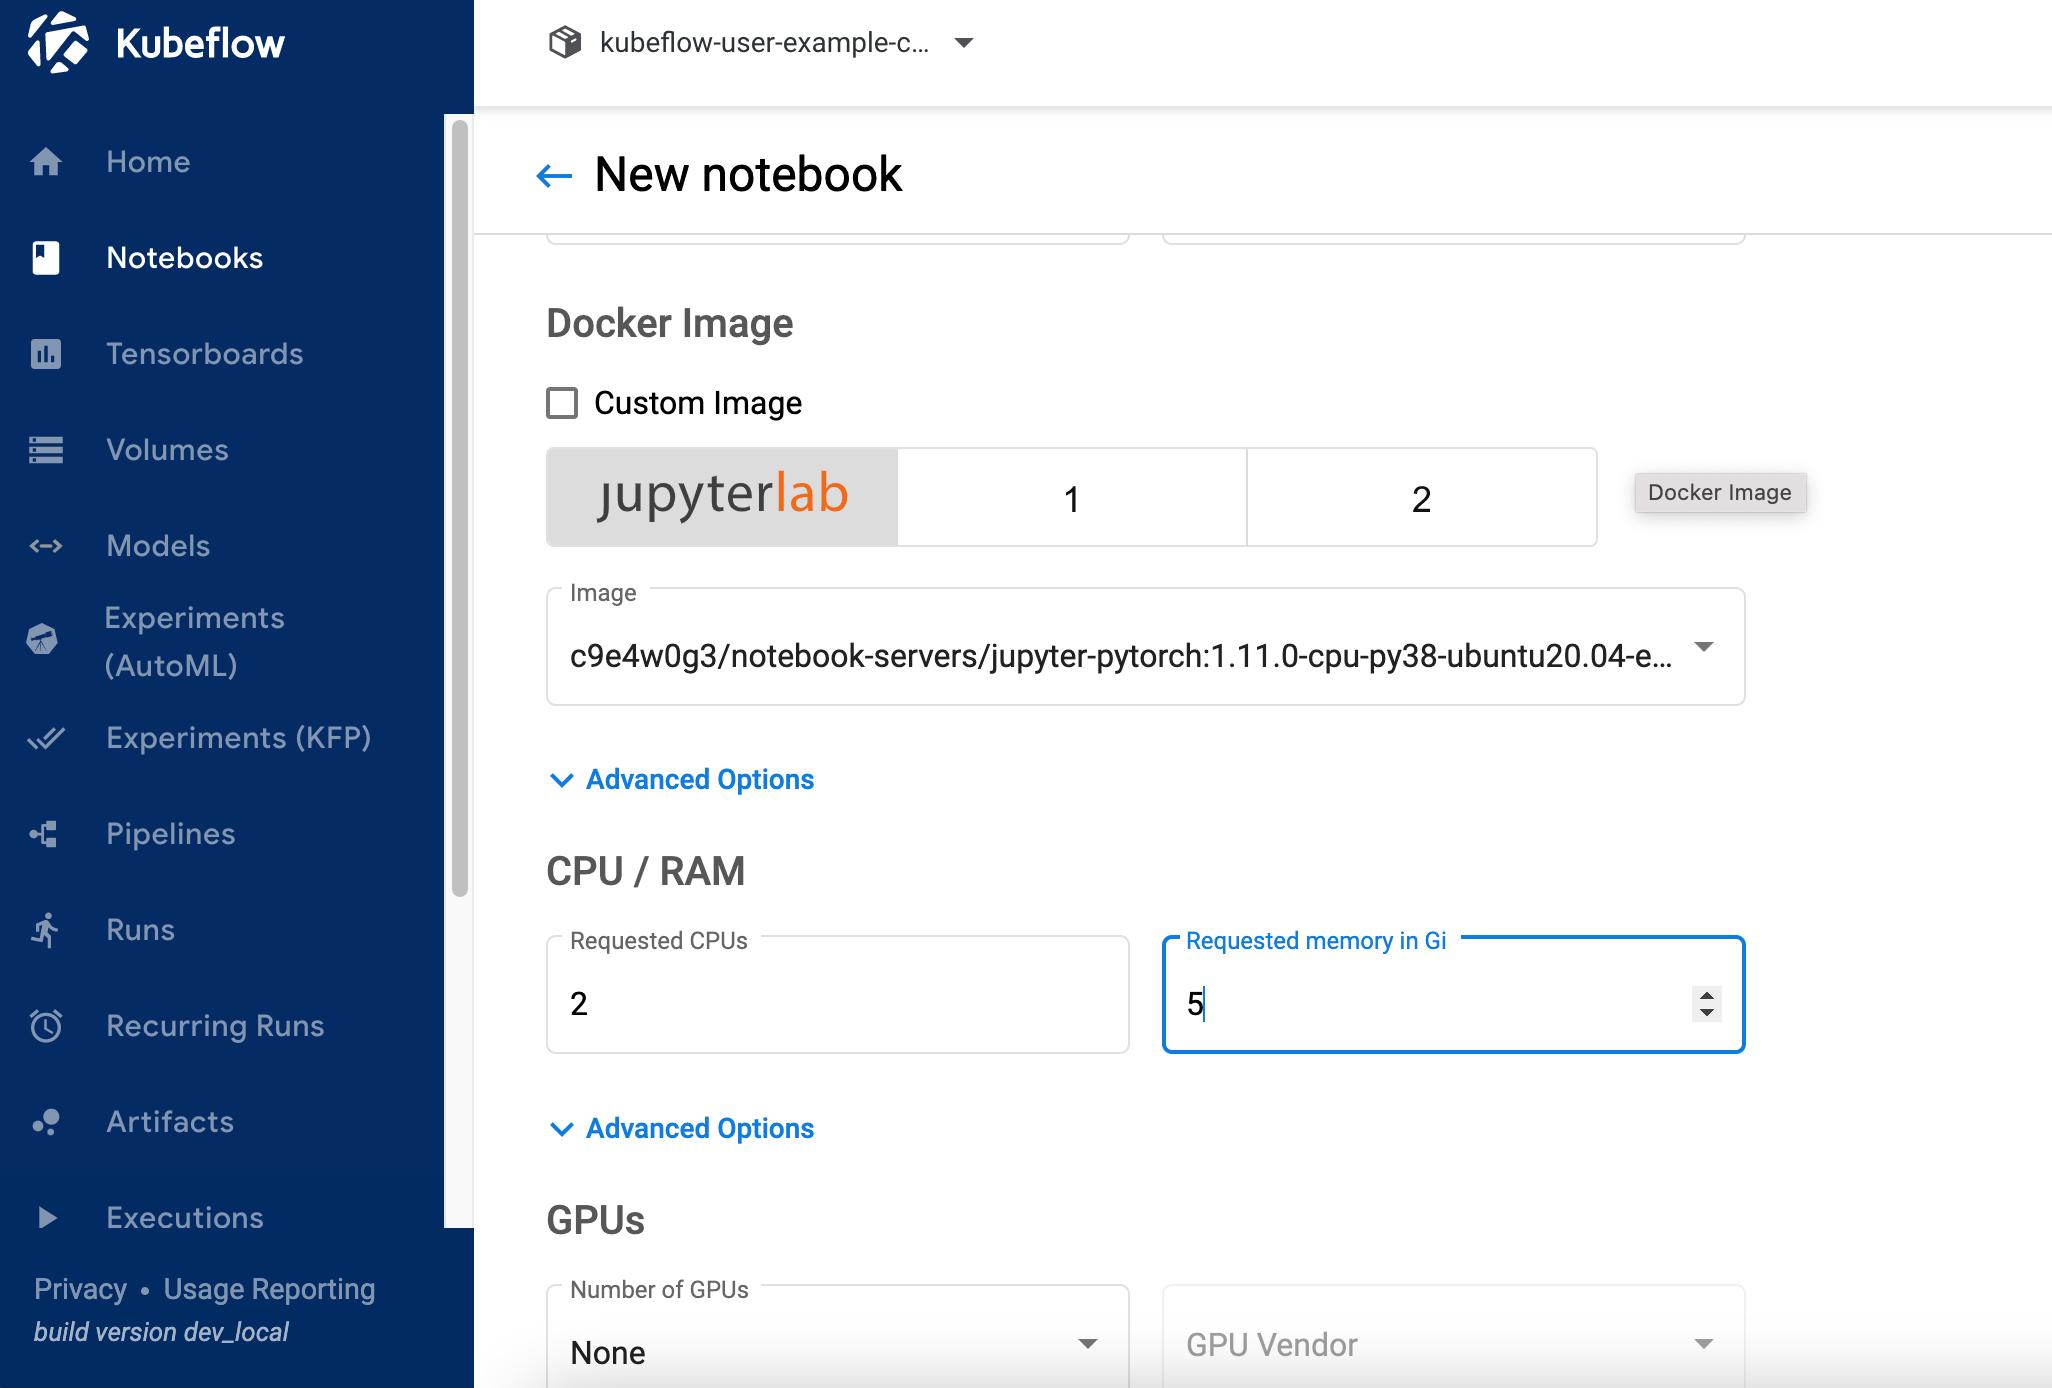
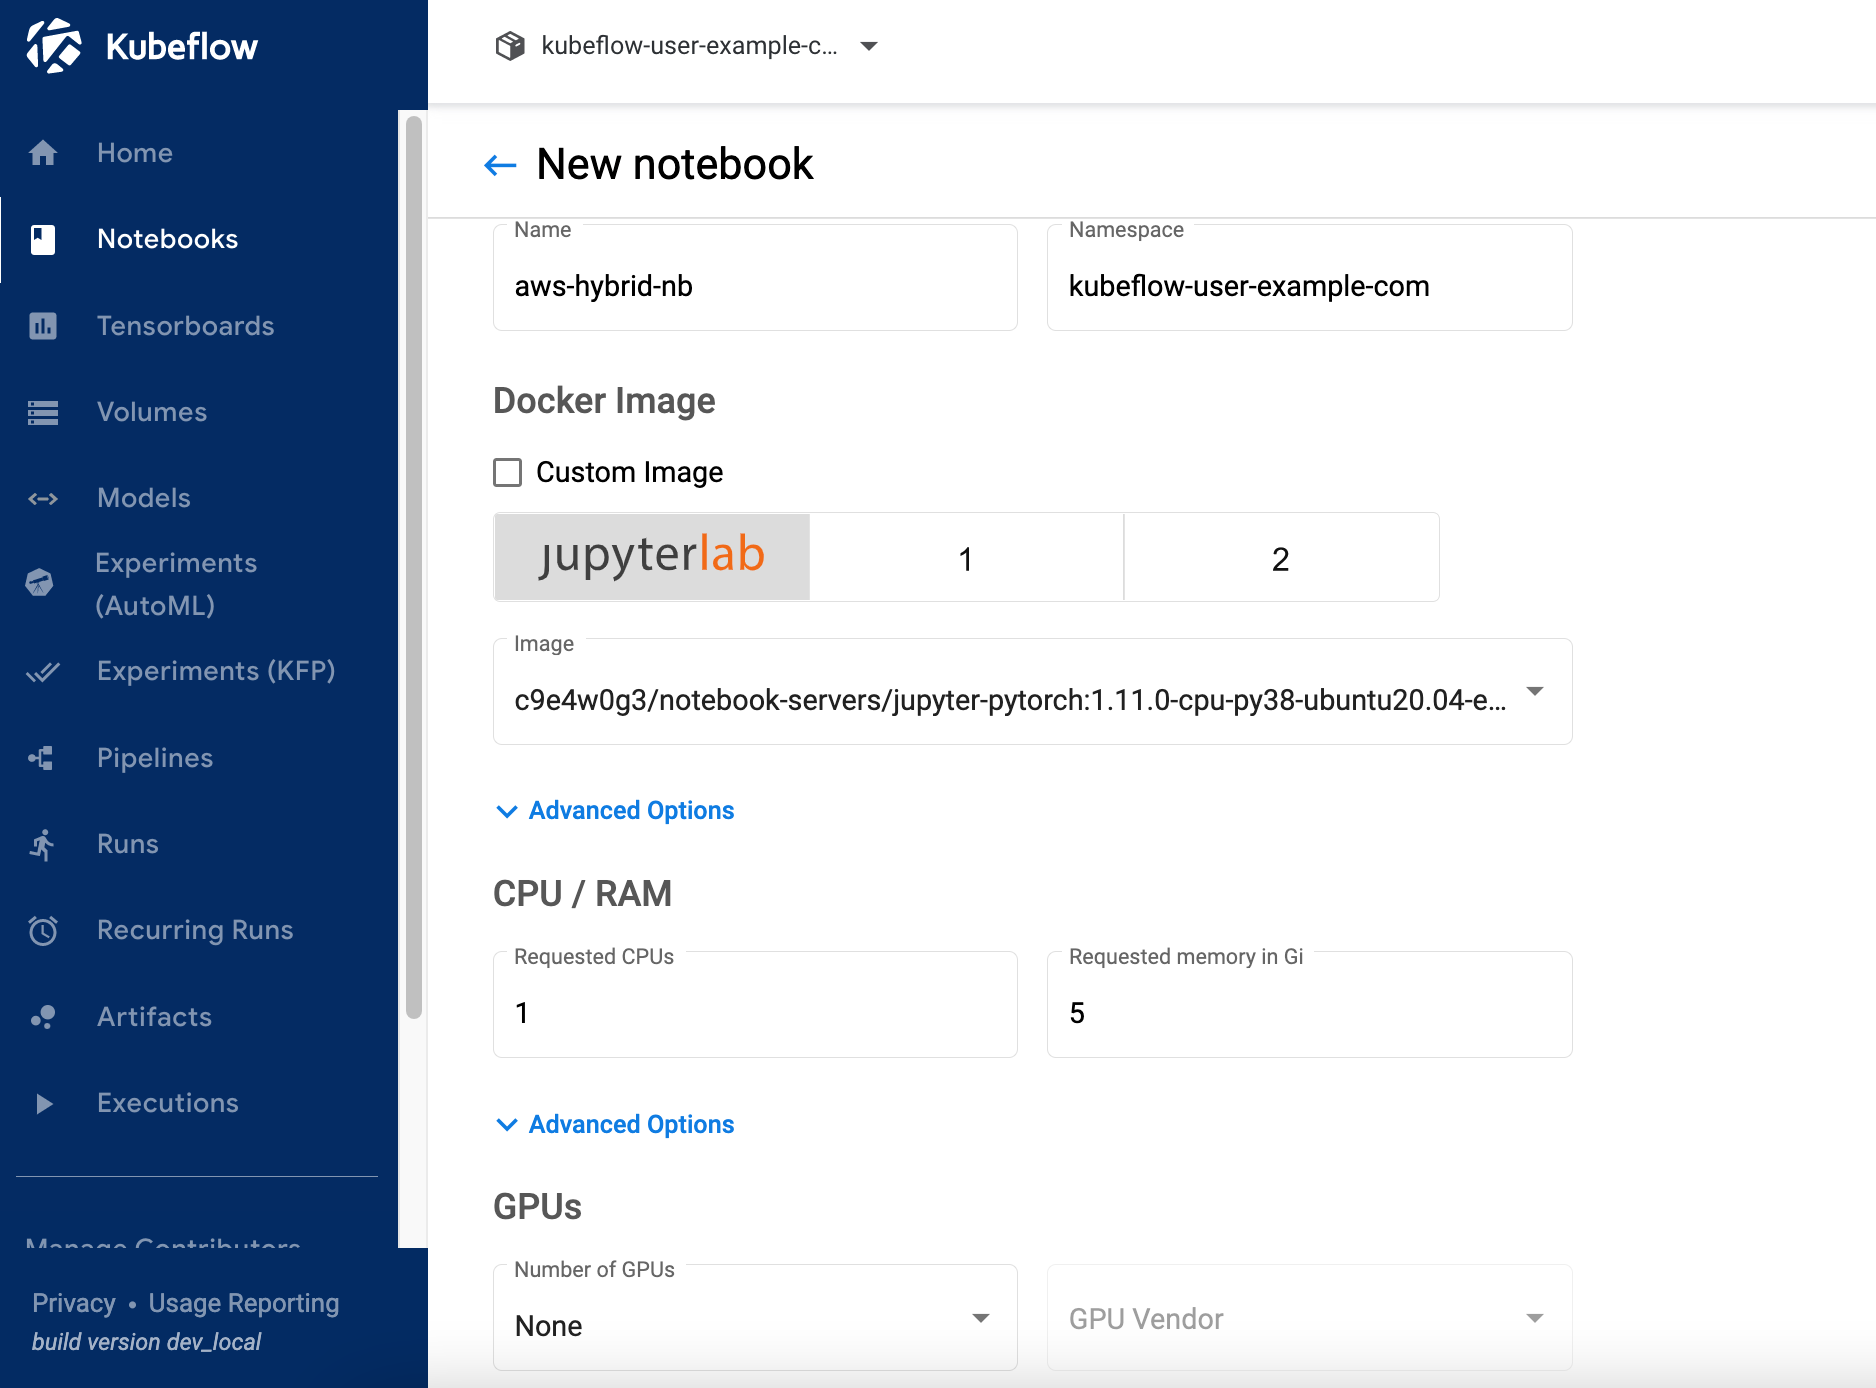
Separate package install from notebooks, update docs

diff --git a/Container-Root/kubeflow/examples/distributed-training/pytorch/workshop/README.md b/Container-Root/kubeflow/examples/distributed-training/pytorch/workshop/README.md
@@ -1,4 +1,4 @@
-# Workshop: Distributed Model Training on Kuberenets with Kubeflow on AWS and Amazon SageMaker
+# Workshop: Distributed Model Training on Kubernetes with Kubeflow on AWS and Amazon SageMaker
 
 ## 1. Introduction 
 
@@ -6,7 +6,7 @@ In this workshop, we demonstrate how Kubeflow on AWS integration with AWS Deep L
 
 Machine learning development relies on complex and continuously evolving open source frameworks and toolkits, as well as complex and continuously evolving hardware ecosystems. This poses a challenge when scaling up machine learning development to a cluster. Containers offer a solution, since they can fully encapsulate not just the training code, but the entire dependency stack down to the hardware libraries, ensuring a machine learning environment that is consistent and portable. and facilitating reproducibility of the training environment on each individual node. Kubernetes is a widely adopted system for automating deployment, scaling, and management of containerized applications.
 
-Kubeflow aims to make the deployment of machine learning end-to-end workflows on Kubernetes simple, portable and scalable. Customers are leveraging Kubeflow to deploy best-of-breed open-source systems for machine learning to diverse infrastructures.  This tutorial will demonstrate how to leverage Kubeflow to implement a machine learning pipeline  for distributed training based on either a self-managed approach, or leveraging the SageMaker platform.  At the end, we will demonstrate the implementation of a hybrid reference architecture that allows for customers to chose between both approaches at run-time, conferring maximum control and flexibility  to customers with stringent needs for their deployments.
+Kubeflow aims to make the deployment of machine learning end-to-end workflows on Kubernetes simple, portable and scalable. Customers are leveraging Kubeflow to deploy best-of-breed open-source systems for machine learning to diverse infrastructures.  This tutorial will demonstrate how to leverage Kubeflow to implement a machine learning pipeline  for distributed training based on either a self-managed approach, or leveraging the SageMaker platform.  At the end, we will demonstrate the implementation of a hybrid reference architecture that allows for customers to choose between both approaches at run-time, conferring maximum control and flexibility  to customers with stringent needs for their deployments.
 
 ## 2. Kubeflow on AWS
 

diff --git a/Container-Root/kubeflow/examples/distributed-training/pytorch/workshop/WORKSHOP_STEPS.md b/Container-Root/kubeflow/examples/distributed-training/pytorch/workshop/WORKSHOP_STEPS.md
@@ -210,7 +210,7 @@ watch kubectl get pods -A
 
 ## 6. Create Jupyter Notebook 
 
-6.1 Click on “Notebooks” on left navigation of the Kubeflow dashboard. Click on “New Notebook” button. Enter name as “aws-hybrid-nb”, select “jupyter-pytorch:1.11.0-cpu-py38” as Jupyter Docket Image. Enter 1 for CPU and 1 as memory in Gi. Keep GPUs as None.
+6.1 Click on “Notebooks” on left navigation of the Kubeflow dashboard. Click on “New Notebook” button. Enter name as “aws-hybrid-nb”, select “jupyter-pytorch:1.11.0-cpu-py38” as Jupyter Docket Image. Enter 1 for CPU and 5 as memory in Gi. Keep GPUs as None.
 
 
 <center><img src="img/4_kubeflow_create_jupyter.png" width="80%"/> </center><br/><br/>
@@ -248,12 +248,13 @@ watch kubectl get pods -A
 
 6.8 Browse to "aws-do-kubeflow/Container-Root/kubeflow/examples/distributed-training/pytorch/workshop" folder
 
-6.9 Run notebook “1_submit_pytorchdist_k8s.ipynb”       
+6.9 Run notebook "0_initialize_dependencies.ipynb". Please wait for it to finish execution before you move on to next step
 
-6.10. Run notebook “2_create_pipeline_k8s_sagemaker.ipynb”    
+6.10 Run notebook “1_submit_pytorchdist_k8s.ipynb”       
 
-6.11 Click on “Run details” link in the following cell. 
+6.11 Run notebook “2_create_pipeline_k8s_sagemaker.ipynb”    
 
+6.12 Click on “Run details” link in the following cell. 
 
 <center><img src="img/9_run_details.png" width="80%"/> </center><br/><br/>
 
